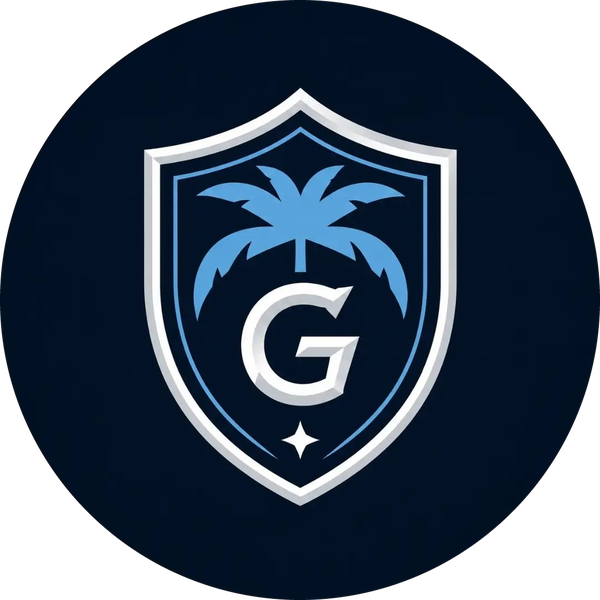
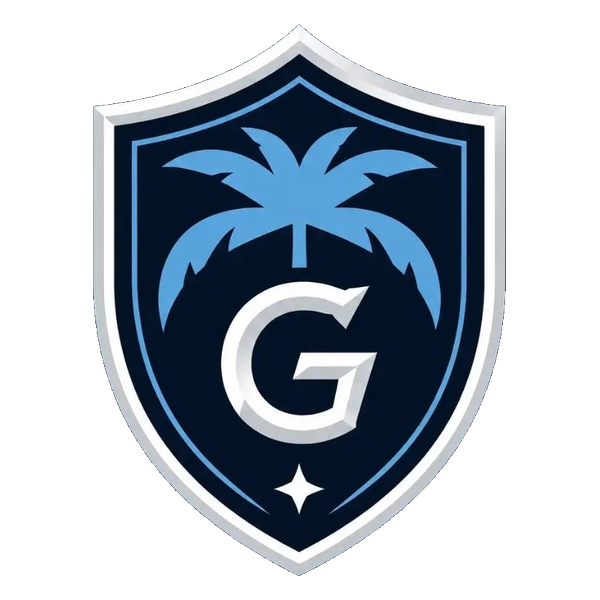
Prueba Liga Femenina: escudos sin fondo y del mismo tamaño; Dep. Capra
Claude-Session: https://claude.ai/code/session_01PiaenGnF26zdi52QLa4LrN

diff --git a/js/data_f.js b/js/data_f.js
@@ -41,7 +41,7 @@
       "id": "f_constructoras",
       "nombre": "Constructoras",
       "slug": "f_constructoras",
-      "escudo": "public/escudos/f_constructoras.png?v=1",
+      "escudo": "public/escudos/f_constructoras.png?v=2",
       "zonaApertura": null,
       "zonaClausura": "A",
       "color": "#C2268F",
@@ -74,7 +74,7 @@
       "id": "f_galana",
       "nombre": "Galana",
       "slug": "f_galana",
-      "escudo": "public/escudos/f_galana.png?v=1",
+      "escudo": "public/escudos/f_galana.png?v=2",
       "zonaApertura": "A",
       "zonaClausura": "A",
       "color": "#C2268F",
@@ -96,7 +96,7 @@
       "id": "f_inter",
       "nombre": "Inter",
       "slug": "f_inter",
-      "escudo": "public/escudos/f_inter.png?v=1",
+      "escudo": "public/escudos/f_inter.png?v=2",
       "zonaApertura": "A",
       "zonaClausura": "A",
       "color": "#C2268F",
@@ -107,7 +107,7 @@
       "id": "f_tercer_tiempo",
       "nombre": "Tercer Tiempo",
       "slug": "f_tercer_tiempo",
-      "escudo": "public/escudos/f_tercer_tiempo.png?v=1",
+      "escudo": "public/escudos/f_tercer_tiempo.png?v=2",
       "zonaApertura": "A",
       "zonaClausura": "A",
       "color": "#C2268F",
@@ -118,12 +118,12 @@
       "id": "f_dep_capra",
       "nombre": "Dep. Capra",
       "slug": "f_dep_capra",
-      "escudo": "",
+      "escudo": "public/escudos/f_dep_capra.png?v=2",
       "zonaApertura": "A",
       "zonaClausura": null,
       "color": "#C2268F",
-      "instagram": "",
-      "instagramHandle": ""
+      "instagram": "https://www.instagram.com/deportivo.capra/",
+      "instagramHandle": "@deportivo.capra"
     }
   ],
   "apertura": {

diff --git a/index.html b/index.html
@@ -19,7 +19,7 @@
   <link rel="icon" type="image/png" href="public/logo_liga.png">
 
   <!-- Estilos Premium -->
-  <link rel="stylesheet" href="css/styles.css?v=20261109_fem4">
+  <link rel="stylesheet" href="css/styles.css?v=20261109_fem5">
   <!-- Vercel Web Analytics -->
   <script>window.va = window.va || function () { (window.vaq = window.vaq || []).push(arguments); };</script>
   <script defer src="/_vercel/insights/script.js"></script>
@@ -218,12 +218,12 @@
   </footer>
 
   <!-- Scripts: Datos Oficiales y Lógica Reactiva -->
-  <script src="js/data.js?v=20261109_fem4"></script>
-  <script src="js/data_b.js?v=20261109_fem4"></script>
-  <script src="js/data_c.js?v=20261109_fem4"></script>
-  <script src="js/data_f.js?v=20261109_fem4"></script>
-  <script src="js/data_bc.js?v=20261109_fem4"></script>
-  <script src="js/app.js?v=20261109_fem4"></script>
+  <script src="js/data.js?v=20261109_fem5"></script>
+  <script src="js/data_b.js?v=20261109_fem5"></script>
+  <script src="js/data_c.js?v=20261109_fem5"></script>
+  <script src="js/data_f.js?v=20261109_fem5"></script>
+  <script src="js/data_bc.js?v=20261109_fem5"></script>
+  <script src="js/app.js?v=20261109_fem5"></script>
 </body>
 
 </html>
